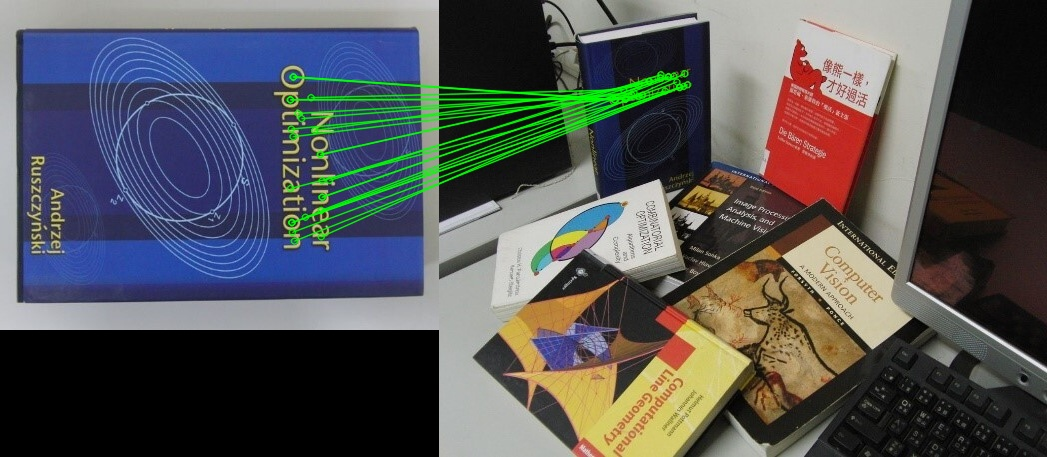
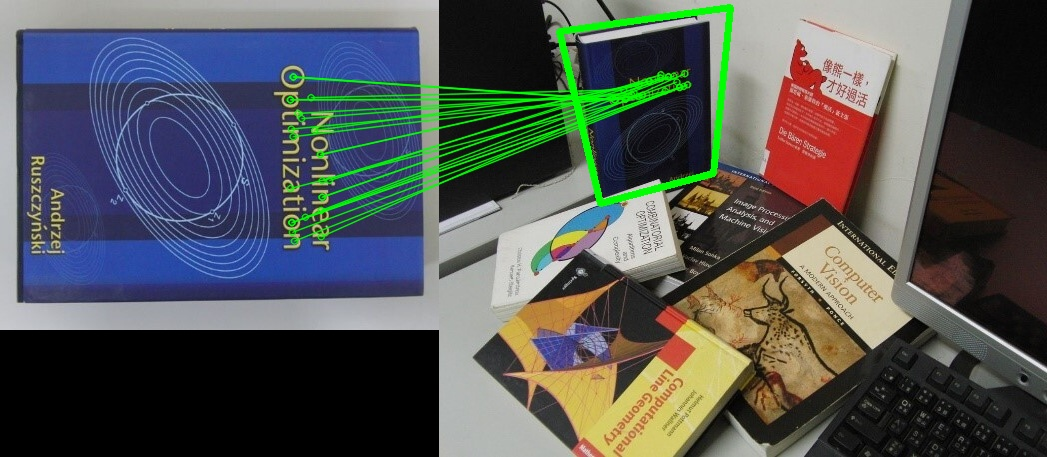
[UPDATE] draw bounding boxes of detected books

Changed region(s): [[0.5196, 0.0, 0.703, 0.4595]]

diff --git a/1/HW3-1.py b/1/HW3-1.py
@@ -49,7 +49,7 @@ def solve_homography(pts1, pts2):
     return x
 
 
-def ransac_matching(points, rounds=1000, agree_threshold=10):
+def ransac_matching(points, rounds=1000, agree_threshold=10.0):
     max_agrees = -1
     best_agree_idx = None
     best_H = None
@@ -128,14 +128,19 @@ if __name__ == '__main__':
         flattened_matches = list(chain.from_iterable(matches_idx))
         pts = points_from_matches(flattened_matches, book_feat, image_feat)
 
-        best_agrees, H = ransac_matching(pts, agree_threshold=3)
+        best_agrees, H = ransac_matching(pts, agree_threshold=2)
 
         matches_idx = [[cv2.DMatch(i, i, 0)] for i in range(best_agrees.sum())]
         matched_book_kp = pick_agreed_keypoints(book_feat, flattened_matches, 'queryIdx', best_agrees)
         matched_image_kp = pick_agreed_keypoints(image_feat, flattened_matches, 'trainIdx', best_agrees)
 
+        h, w, _ = book.shape
+        quad = np.array([[0, 0, 1], [w, 0, 1], [w, h, 1], [0, h, 1]])
+        quad = warp_by(quad, H).astype(np.int32)[..., :-1]
+        image_detect = cv2.polylines(image.copy(), np.array([quad]), True, (0, 255, 0), 5)
+
         matches_img = cv2.drawMatchesKnn(
-            book, matched_book_kp, image, matched_image_kp, matches_idx, None,
+            book, matched_book_kp, image_detect, matched_image_kp, matches_idx, None,
             flags=cv2.DrawMatchesFlags_NOT_DRAW_SINGLE_POINTS,
             matchColor=(0, 255, 0))
         cv2.imwrite(str(output_dir / f'1b_book{i + 1}.jpg'), matches_img)
@@ -144,4 +149,3 @@ if __name__ == '__main__':
         image_dev = deviation_vectors(book_pts[best_agrees], image_pts[best_agrees], H, image_dev)
 
     cv2.imwrite(str(output_dir / f'1b_deviation_vectors.jpg'), image_dev)
-
